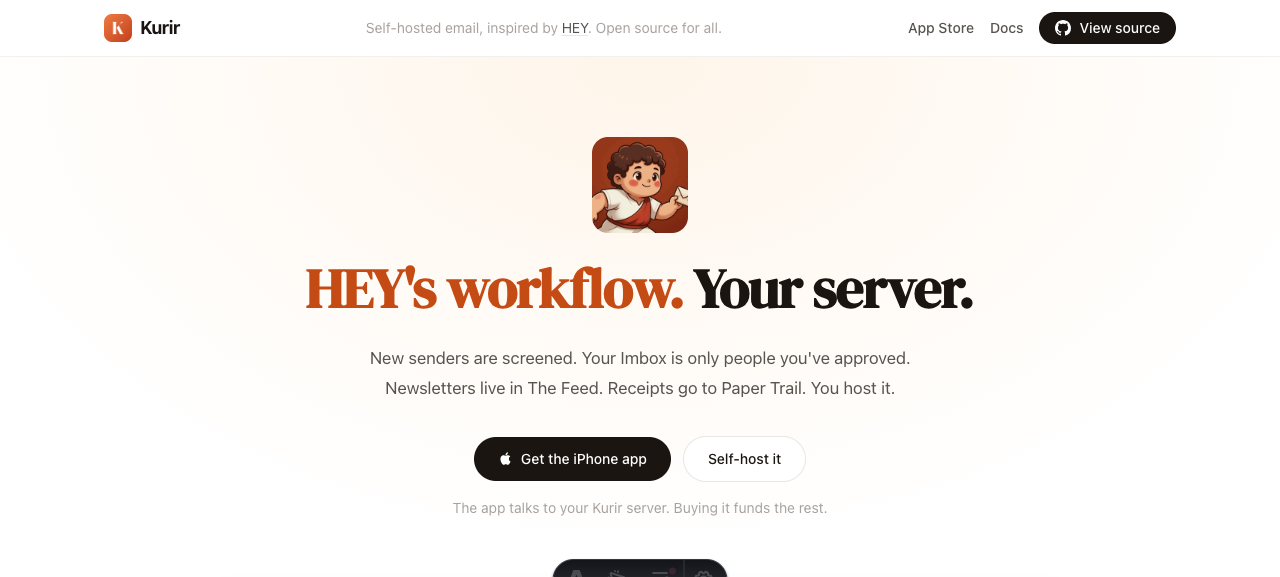
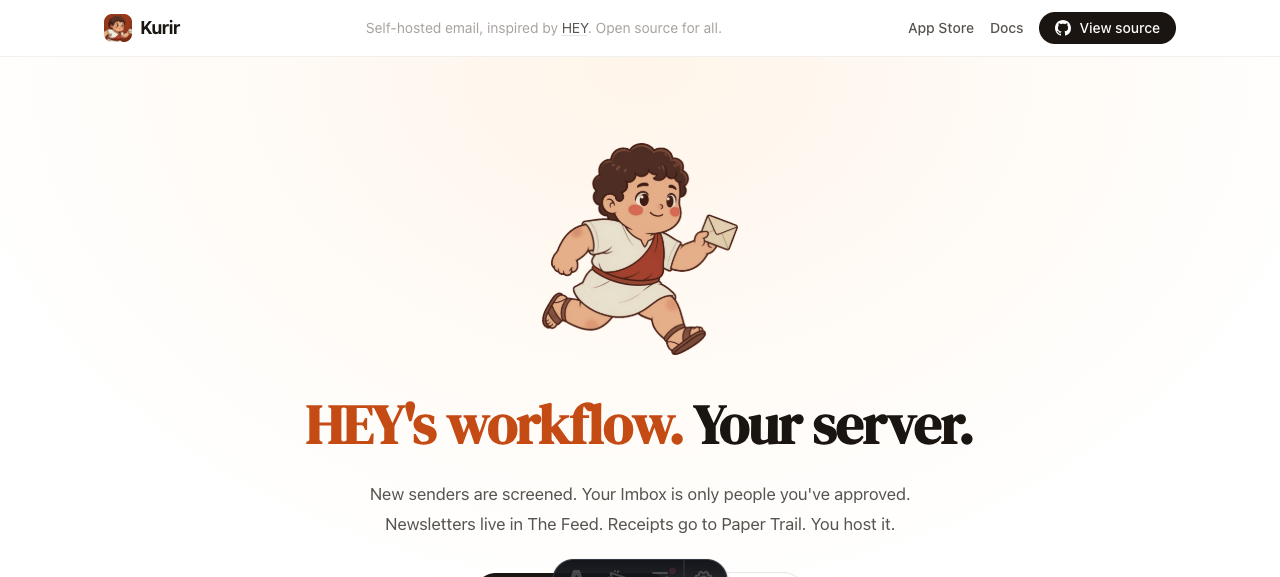
site: use the mascot as kurir.io's mark and full-body hero
Header, footer, and favicon swap the serif K for the courier close-up.
Hero shows the uncropped running figure with the terracotta field removed.

Changed region(s): [[0.2188, 0.2184, 0.7812, 0.9359], [0.375, 0.9671, 0.4375, 1.0], [0.0625, 0.0312, 0.125, 0.0936]]

diff --git a/DESIGN.md b/DESIGN.md
@@ -12,10 +12,12 @@ This file describes intent; the CSS holds the exact values.
 - **Product**: Kurir — "Email for Humans". A calm, focused inbox.
 - **Feel**: warm, paper-like, editorial. Generous whitespace, quiet chrome, content
   first. The interface should disappear behind the message.
-- **Mark**: the serif K on terracotta is the app icon and sidebar mark.
+- **Mark**: the serif K on terracotta is the app icon and the web/native
+  sidebar mark. kurir.io's header and favicon use the mascot close-up.
 - **Mascot**: a round chibi courier in a cream tunic with a terracotta sash,
   holding a cream envelope. Canonical sheet: `docs/design/mascot/`. Used on
-  auth, list empty states, and kurir.io. Search empties keep a quiet glyph.
+  auth, list empty states, and kurir.io (header close-up, hero full-body).
+  Search empties keep a quiet glyph.
 - **Anti-goals**: cold blue-grey SaaS dashboards, purple-gradient-on-white AI slop,
   Inter-everywhere flatness, avatar circles, decorative icons-in-a-grid.
 

diff --git a/docs/design/mascot/README.md b/docs/design/mascot/README.md
@@ -2,7 +2,7 @@
 
 Round chibi courier. Cream tunic, terracotta sash, dark curly hair, cream envelope. The K lettermark stays the app icon and sidebar mark; this character is the mascot.
 
-Canonical production crop: `00-canonical-closeup.png` (also `/mascot.png` and `site/public/mascot.png`).
+Canonical production crop: `00-canonical-closeup.png` (also `/mascot.png` and `site/public/mascot.png`). kurir.io hero uses `06-full-body-cutout.png` as `site/public/mascot-hero.png`.
 
 ## Locked traits
 
@@ -27,5 +27,6 @@ Seed every new pose from `00-canonical-closeup.png` via image-to-image. Do not g
 | `03-standing-deliver.png` | Standing, holding the envelope out |
 | `04-wave.png` | Standing, waving |
 | `05-portrait-front.png` | Chest-up, looking at camera |
+| `06-full-body-cutout.png` | Full-body run, terracotta knocked out |
 
 The same sheet lives in `kurir-ios` at `docs/design/mascot/`.
